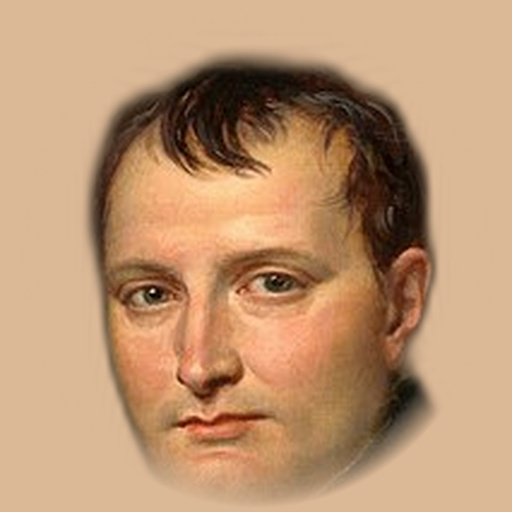
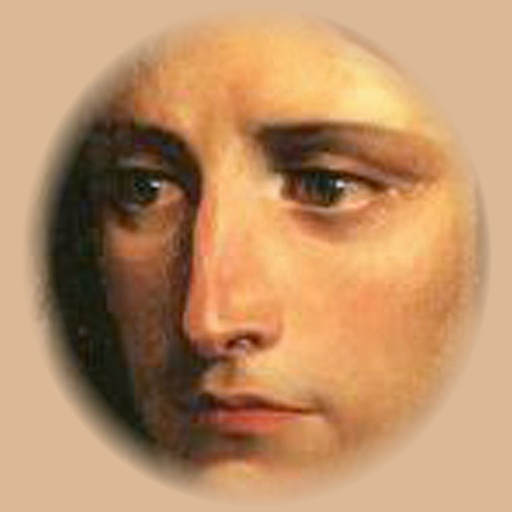
backup: webroot snapshot 2026-03-23 16:01 UTC

diff --git a/cards/napoleon3d.html b/cards/napoleon3d.html
@@ -14,6 +14,10 @@ canvas{display:block}
 <button onclick="zoomTo('hands')">4 HANDS</button>
 <button onclick="zoomTo('legs')">5 LEGS</button>
 <button onclick="zoomTo('full')">6 FULL</button>
+<span style="margin-left:20px"></span>
+<button onclick="setAnim('idle')">I IDLE</button>
+<button onclick="setAnim('walk')">W WALK</button>
+<button onclick="setAnim('run')">R RUN</button>
 <span id="info"></span>
 </div>
 <canvas id="c"></canvas>
@@ -220,14 +224,14 @@ headGroup.add(skull);
 var jawGeo=new THREE.SphereGeometry(0.11,16,12,0,Math.PI*2,Math.PI*0.3,Math.PI*0.4);
 jawGeo.scale(1.05,1.0,0.9);
 var jaw=new THREE.Mesh(jawGeo,skin);
-jaw.position.set(0,-0.06,0.01);
+jaw.position.set(0,-0.06,-0.02);
 headGroup.add(jaw);
 
 // Chin
 var chinGeo=new THREE.SphereGeometry(0.04,12,12);
 chinGeo.scale(1.2,0.8,1.0);
 var chin=new THREE.Mesh(chinGeo,skin);
-chin.position.set(0,-0.13,0.06);
+chin.position.set(0,-0.13,0.0);
 headGroup.add(chin);
 
 // Brow painted in texture
@@ -240,12 +244,7 @@ headGroup.add(chin);
 
 // Ears painted in texture
 
-// Hair — Napoleon's iconic forward-swept fringe
-var fringeGeo=new THREE.SphereGeometry(0.15,16,8,0,Math.PI*2,0,Math.PI*0.45);
-fringeGeo.scale(1.05,0.9,1.0);
-var fringe=new THREE.Mesh(fringeGeo,hair);
-fringe.position.set(0,0.04,0.02);
-headGroup.add(fringe);
+// Hair from portrait
 // Side hair from portrait
 // Hair from portrait texture
 
@@ -412,7 +411,7 @@ var croppedFaceTex=new THREE.TextureLoader().load('lib/napoleon-cropped.jpg');
 var facePlaneGeo=new THREE.CircleGeometry(0.145,32);
 var facePlaneMat=new THREE.MeshStandardMaterial({map:croppedFaceTex,roughness:0.5,metalness:0});
 var facePlane=new THREE.Mesh(facePlaneGeo,facePlaneMat);
-facePlane.position.set(0,-0.02,0.132);
+facePlane.position.set(0,-0.02,0.145);
 headGroup.add(facePlane);
 
 // Keep skull as skin-toned
@@ -721,17 +720,89 @@ window.zoomTo=function(name){
     document.getElementById('info').textContent=' → '+name.toUpperCase();
 };
 
+var animState='idle';
+window.setAnim=function(s){animState=s;document.getElementById('info').textContent=' → '+s.toUpperCase();};
+
 // Animate
 var time=0;
 function animate(){
     requestAnimationFrame(animate);
     time+=0.01;
 
-    // Gentle idle
-    N.rotation.y=Math.sin(time*0.3)*0.08;
-    torso.scale.y=1+Math.sin(time*1.5)*0.008;
-    headGroup.rotation.y=Math.sin(time*0.4)*0.02;
-    headGroup.rotation.x=Math.sin(time*0.3+1)*0.01;
+    // Animation system
+    var speed = animState==='run' ? 8 : animState==='walk' ? 4 : 0;
+    var stride = animState==='run' ? 0.6 : 0.35;
+    var armSwing = animState==='run' ? 0.7 : 0.4;
+    var bobAmt = animState==='run' ? 0.03 : 0.015;
+    var lean = animState==='run' ? 0.12 : 0.03;
+    var t = time * speed;
+    
+    if (animState==='idle') {
+        // Gentle idle sway
+        N.rotation.y=Math.sin(time*0.3)*0.08;
+        N.position.y=0;
+        torso.scale.y=1+Math.sin(time*1.5)*0.008;
+        torso.rotation.x=0;
+        headGroup.rotation.y=Math.sin(time*0.4)*0.02;
+        headGroup.rotation.x=Math.sin(time*0.3+1)*0.01;
+        // Reset limbs
+        legL.rotation.x=0;legR.rotation.x=0;
+        bootL.rotation.x=0;bootR.rotation.x=0;
+        foldL.rotation.x=0;foldR.rotation.x=0;
+        armLUpper.rotation.x=0;armRUpper.rotation.x=0;
+        armLLower.rotation.x=0.1;armRLower.rotation.x=0.35;
+    } else {
+        // Walking/running
+        N.rotation.y=Math.sin(time*0.5)*0.03; // slight body turn while moving
+        
+        // Body bob
+        N.position.y=Math.abs(Math.sin(t))*bobAmt;
+        
+        // Forward lean
+        torso.rotation.x=lean;
+        torso.scale.y=1;
+        
+        // Head stabilization (slight counter-bob)
+        headGroup.rotation.x=-lean*0.5+Math.sin(t*2)*0.02;
+        headGroup.rotation.y=Math.sin(t*0.5)*0.03;
+        
+        // Leg swing (alternating)
+        var legAngle=Math.sin(t)*stride;
+        legL.rotation.x=legAngle;
+        legR.rotation.x=-legAngle;
+        
+        // Boot follows leg with delay
+        bootL.rotation.x=legAngle*0.7;
+        bootR.rotation.x=-legAngle*0.7;
+        foldL.rotation.x=legAngle*0.5;
+        foldR.rotation.x=-legAngle*0.5;
+        
+        // Knee bend on back leg (when leg swings back, boot bends forward)
+        var kneeL=Math.max(0,Math.sin(t))*0.3;
+        var kneeR=Math.max(0,-Math.sin(t))*0.3;
+        bootL.rotation.x+=kneeL;
+        bootR.rotation.x-=kneeR;
+        
+        // Arm swing (opposite to legs)
+        armLUpper.rotation.x=-legAngle*armSwing*0.7;
+        armRUpper.rotation.x=legAngle*armSwing*0.5; // less swing on tucked-in arm
+        armLLower.rotation.x=0.1-legAngle*armSwing*0.5;
+        armRLower.rotation.x=0.35+legAngle*armSwing*0.3;
+        
+        // Shoulder rotation for more natural movement
+        armLUpper.rotation.z=-0.12+Math.sin(t)*0.05;
+        armRUpper.rotation.z=0.25+Math.sin(t)*0.03;
+    }
+    
+    // Coat tails always sway (more when moving)
+    var tailSway = animState==='idle' ? 0.02 : animState==='walk' ? 0.08 : 0.15;
+    tailL.rotation.x=Math.sin(t+0.5)*tailSway;
+    tailR.rotation.x=Math.sin(t+1.0)*tailSway;
+    
+    // Sword sway
+    if(typeof swordGroup!=='undefined'){
+        swordGroup.rotation.x=Math.sin(t)*tailSway*0.5;
+    }
 
     // Camera lerp
     if(camLerp<1){
@@ -754,6 +825,9 @@ document.addEventListener('keydown',function(e){
     if(e.key==='4')zoomTo('hands');
     if(e.key==='5')zoomTo('legs');
     if(e.key==='6')zoomTo('full');
+    if(e.key==='i'||e.key==='I')setAnim('idle');
+    if(e.key==='w'||e.key==='W')setAnim('walk');
+    if(e.key==='r'||e.key==='R')setAnim('run');
 });
 
 window.addEventListener('resize',function(){
